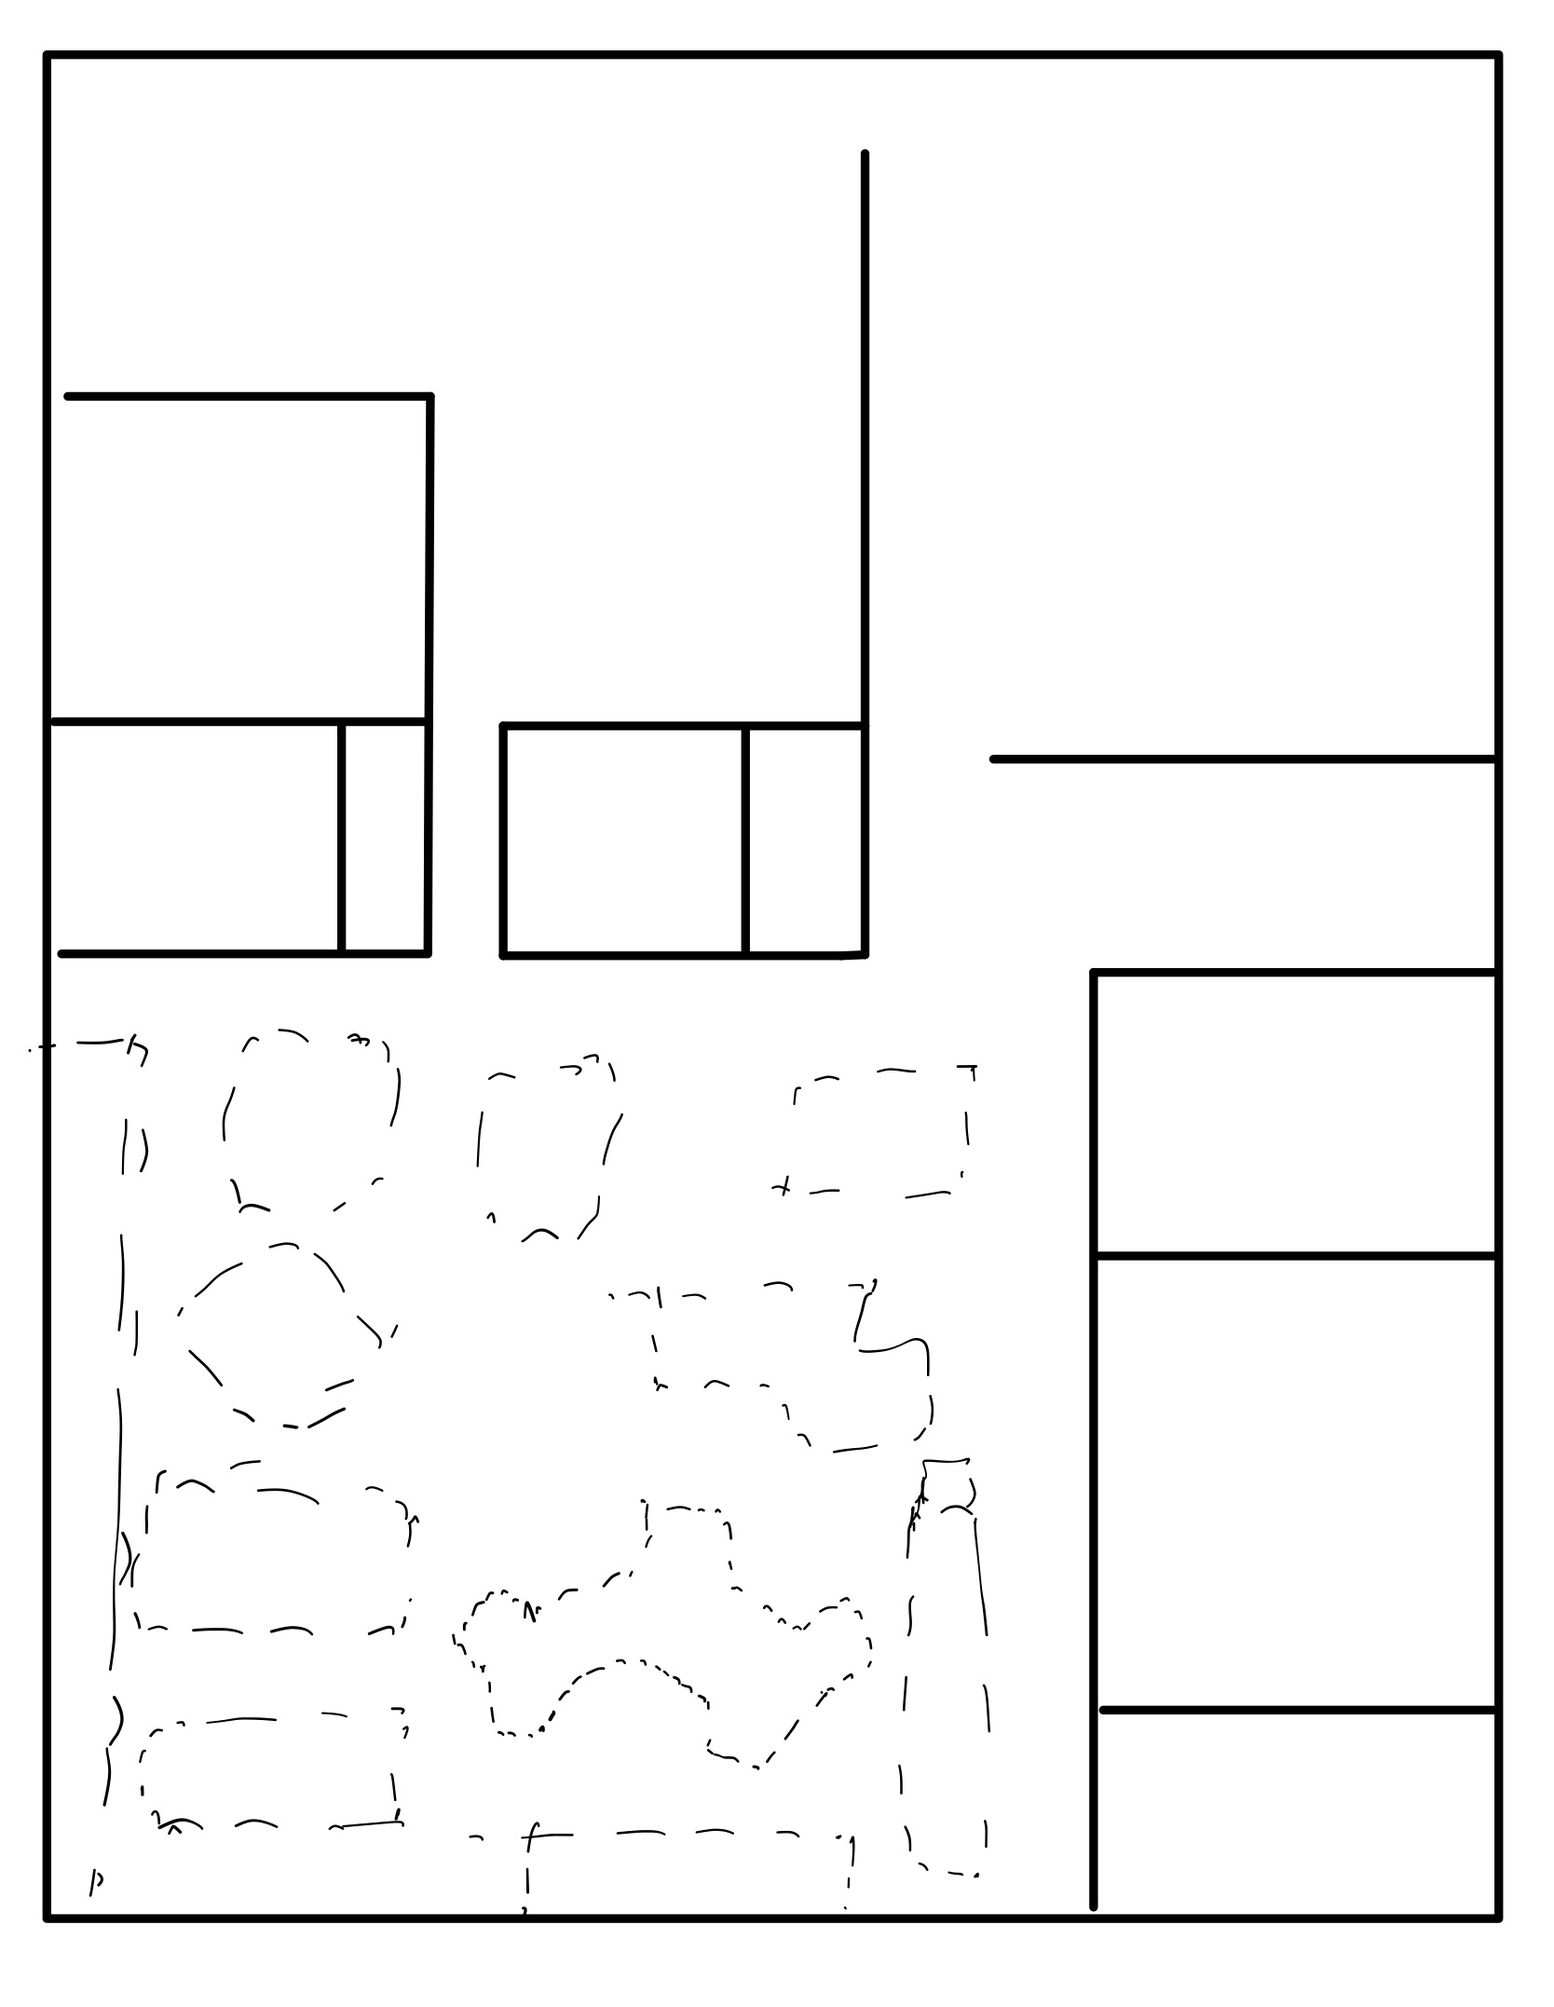
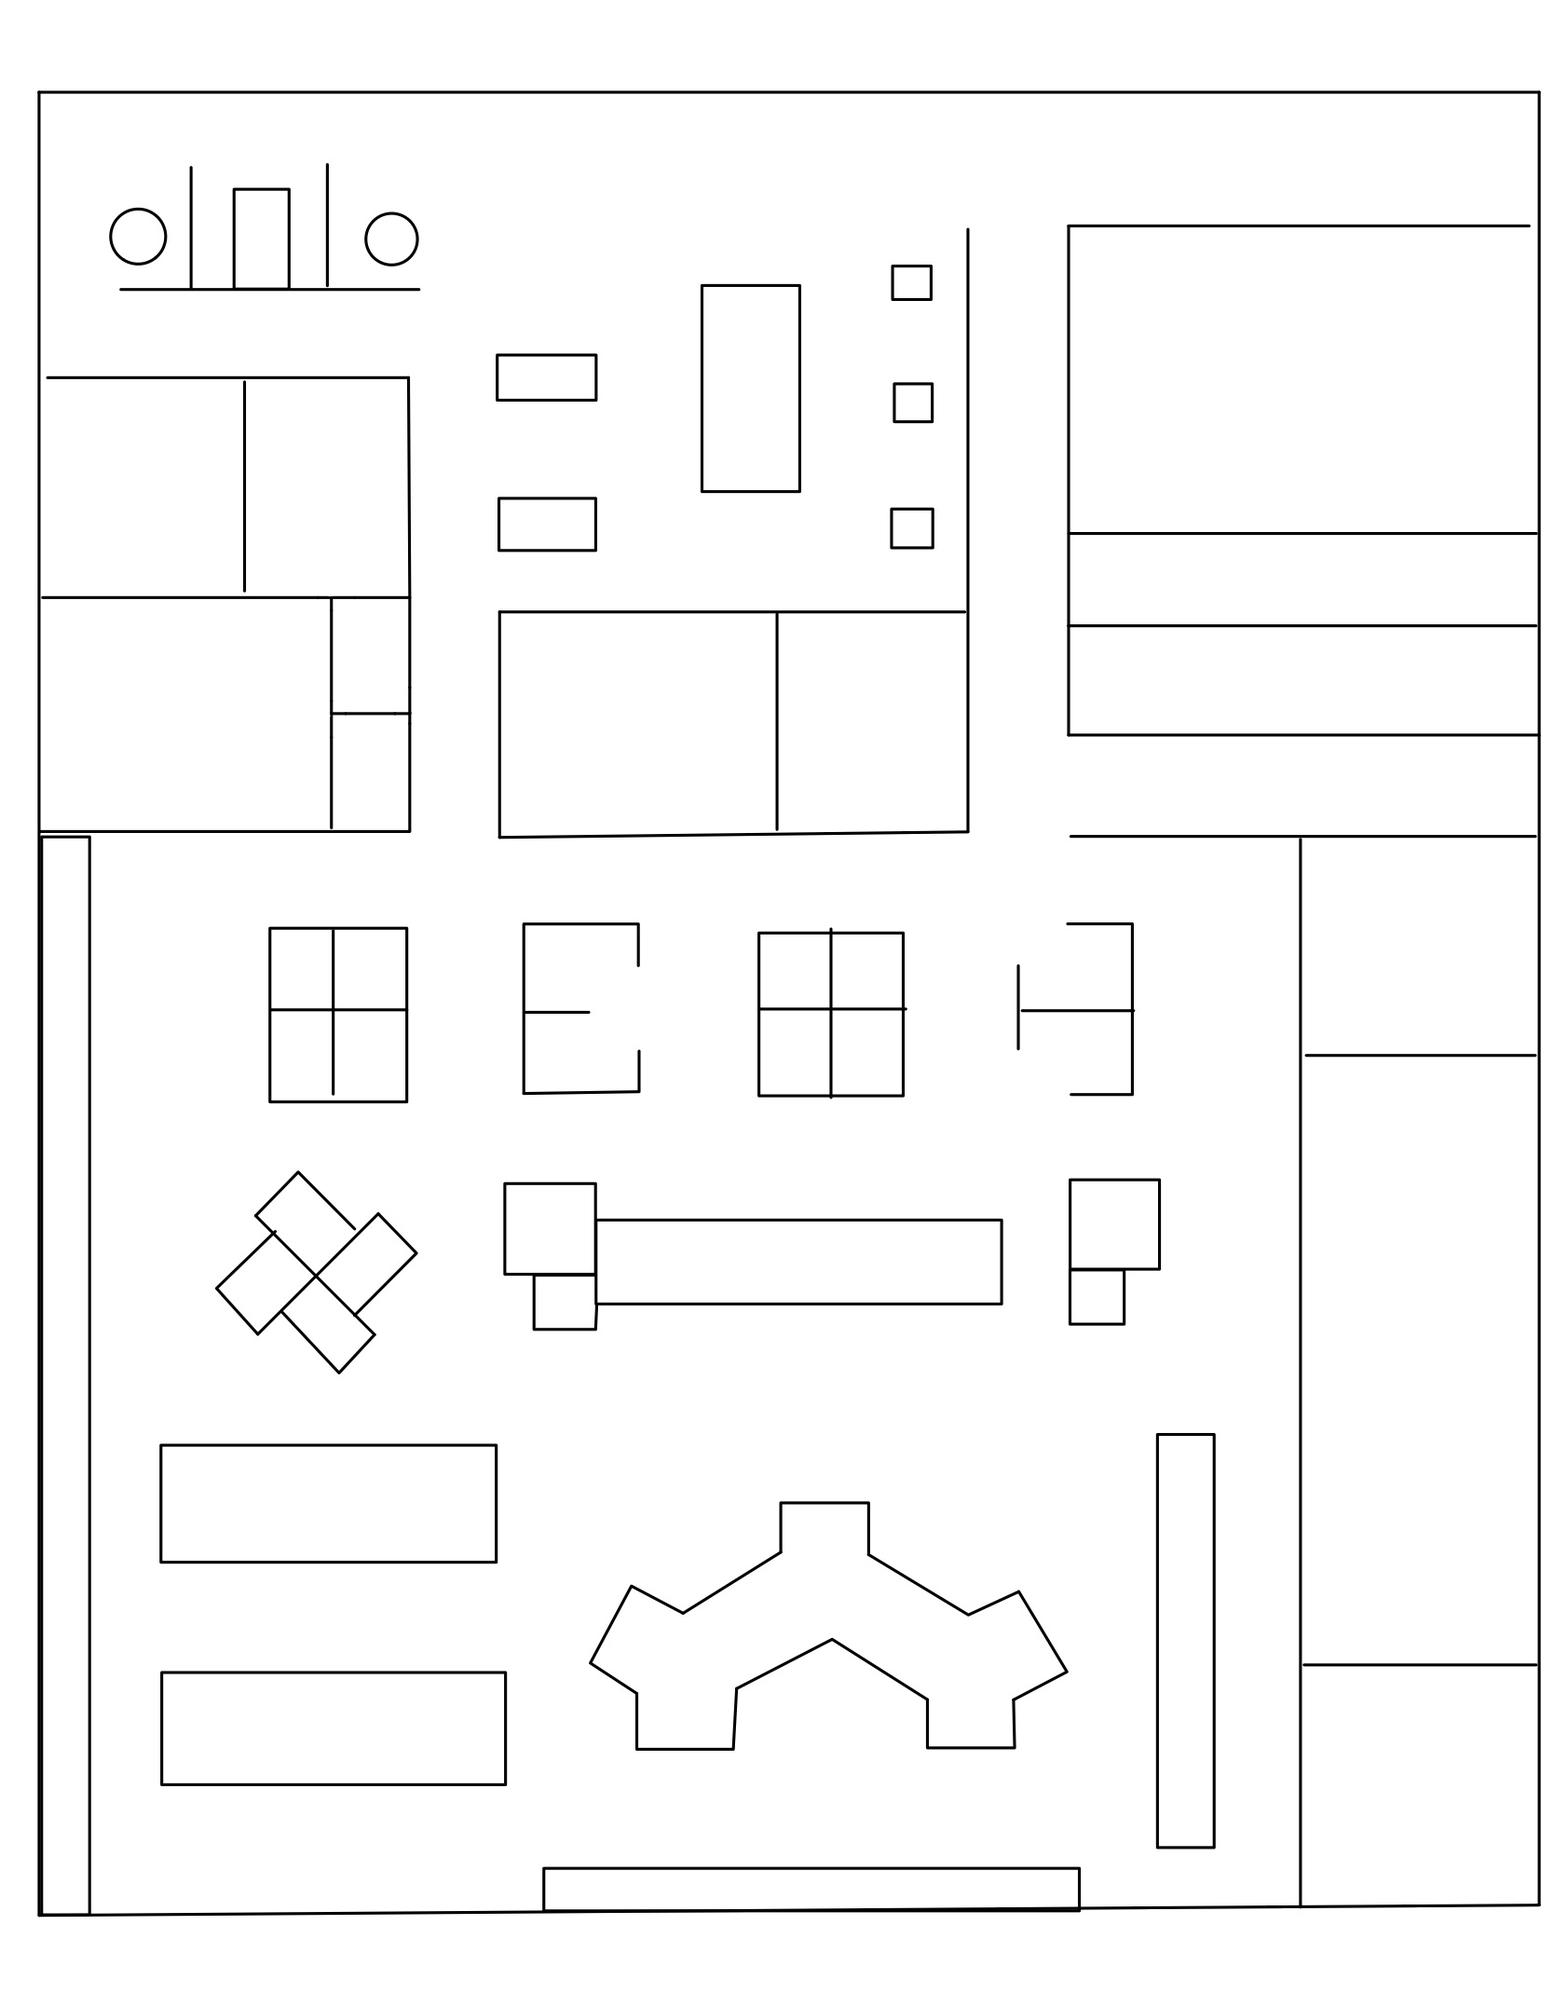
fix map and function

diff --git a/style.css b/style.css
@@ -26,30 +26,86 @@ h1 {
 
 .subtitle {
   color: #666;
-  margin-bottom: 24px;
+  margin-bottom: 8px;
+}
+.subtitle-accent {
+  color: #ef4444;       
+  font-weight: bold;   
+  margin-bottom: 8px; 
+}
+.subtitle-last {
+  color: #4b5563;       
+  font-size: 20px;
+  margin-bottom: 24px;  
+}
+.search-bar-container {
+  display: flex;
+  justify-content: center;
+  margin-bottom: 16px; /* 검색창과 지도 사이의 간격 */
+  gap: 8px;
+}
+#searchInput {
+  width: 250px;
+  padding: 10px 14px;
+  border: 2px solid #cbd5e1;
+  border-radius: 8px;
+  font-size: 14px;
+  font-family: inherit;
+}
+#searchBtn {
+  padding: 10px 16px;
+  background-color: #3b82f6;
+  color: white;
+  border: none;
+  border-radius: 8px;
+  cursor: pointer;
+  font-size: 16px;
+  transition: background-color 0.2s;
+}
+#searchBtn:hover {
+  background-color: #2563eb;
 }
 
-/* 🗺 지도 컨테이너: 손그림 이미지를 배경으로 지정 */
+/* 🕶 검색 시 배경을 어둡게 만드는 반투명 막 */
+.search-overlay {
+  position: absolute;
+  top: 0; left: 0; width: 100%; height: 100%;
+  background-color: rgba(0, 0, 0, 0.6); /* 60% 투명도의 검은색 */
+  border-radius: 12px;
+  z-index: 80; /* 회의실(5)보다는 높고, 강조될 좌석(90)보다는 낮게 설정 */
+  cursor: pointer;
+}
+
+/* 🌟 검색에 성공해 강조된 좌석의 스타일 */
+.seat.highlight {
+  z-index: 90 !important; /* 👈 어두운 막을 뚫고 맨 위로 올라오도록 강제 선언 */
+  transform: scale(1.3);   /* 👈 기존 40x20px 크기보다 살짝 더 키워서 한눈에 띄게 만듦 */
+  box-shadow: 0 0 0 10px rgba(255, 255, 255, 0.2), 0 10px 25px rgba(0,0,0,0.5); /* 주변에 부드러운 하얀 광채 효과 추가 */
+  border-color: #f59e0b !important; /* 테두리를 황금색으로 강조 */
+}
+/* 🗺 지도 컨테이너 */
 .map-container {
   position: relative;
-  width: 1000px;  /* 이미지 가로 해상도에 맞게 적절히 조절하세요 */
-  height: 600px; /* 이미지 세로 해상도에 맞게 적절히 조절하세요 */
-  background-image: url('office_map.jpg'); /* 👈 준비하신 파일명으로 변경 */
-  background-size: 100% 100%;
+  width: 700px;  
+  height: 904px; 
+  background-image: url('office_map.jpg'); 
+  background-size: contain;
   background-position: center;
+  background-repeat: no-repeat;
   border-radius: 12px;
   box-shadow: 0 8px 24px rgba(0,0,0,0.1);
+  margin: 0 auto;
 }
 
 /* 🪑 좌석 버튼 공통 스타일 */
 .seat {
   position: absolute;
-  width: 70px;   /* 좌석 버튼 가로 크기 */
-  height: 45px;  /* 좌석 버튼 세로 크기 */
+  width: 40px;   
+  height: 20px;  
   background-color: rgba(255, 255, 255, 0.9);
   border: 2px solid #cbd5e1;
   border-radius: 6px;
-  font-size: 12px;
+  font-size: 11px; /* 글자가 박스 밖으로 깨지지 않게 살짝 줄임 */
   font-weight: bold;
   color: #475569;
   cursor: pointer;
@@ -59,11 +115,12 @@ h1 {
   justify-content: center;
   align-items: center;
   box-shadow: 0 2px 4px rgba(0,0,0,0.05);
+  z-index: 10; /* 👈 회의실 텍스트나 배경 위에 무조건 오도록 우선순위 지정 */
 }
 
 /* 개별 좌석 상태별 스타일 */
 .seat.occupied {
-  background-color: #3b82f6; /* 예약된 좌석은 파란색 */
+  background-color: #3b82f6; 
   color: white;
   border-color: #2563eb;
 }
@@ -73,12 +130,118 @@ h1 {
   box-shadow: 0 4px 8px rgba(0,0,0,0.15);
 }
 
-/* 📍 개별 좌석 위치 (예시 좌표)
-   손그림 위의 책상 위치에 맞게 top과 left 퍼센트 값을 조절하시면 됩니다.
-   여기서는 우선 가상으로 5개만 위치를 잡아두었습니다. */
-.seat[data-id="1"] { top: 15%; left: 10%; }
-.seat[data-id="2"] { top: 15%; left: 22%; }
-.seat[data-id="3"] { top: 15%; left: 34%; }
-.seat[data-id="4"] { top: 45%; left: 10%; }
-.seat[data-id="5"] { top: 45%; left: 22%; }
-/* ... 나머지 6번부터 20번까지도 이런 식으로 아래에 추가해주시면 됩니다 */
+/* 🔕 좌석 안의 번호 숫자 숨기기 (올바른 주석 처리) */
+.seat-num {
+  display: none;
+}
+
+/* 📍 1번부터 83번 좌석 위치 데이터 */
+.seat[data-id="1"] { top: 42%; left: 4%; }
+.seat[data-id="2"] { top: 47%; left: 4%; }
+.seat[data-id="3"] { top: 52%; left: 4%; }
+.seat[data-id="4"] { top: 57%; left: 4%; }
+.seat[data-id="5"] { top: 61%; left: 4%; }
+.seat[data-id="6"] { top: 66%; left: 4%; }
+.seat[data-id="7"] { top: 71%; left: 4%; }
+.seat[data-id="8"] { top: 76%; left: 4%; }
+.seat[data-id="9"] { top: 81%; left: 4%; }
+.seat[data-id="10"] { top: 86%; left: 4%; }
+.seat[data-id="11"] { top: 92%; left: 4%; }
+.seat[data-id="12"] { top: 47%; left: 14%; }
+.seat[data-id="13"] { top: 47%; left: 22%; }
+.seat[data-id="14"] { top: 51%; left: 14%; }
+.seat[data-id="15"] { top: 51%; left: 22%; }
+.seat[data-id="16"] { top: 61%; left: 13%; }
+.seat[data-id="17"] { top: 65%; left: 16%; }
+.seat[data-id="18"] { top: 62%; left: 22%; }
+.seat[data-id="19"] { top: 58%; left: 18%; }
+.seat[data-id="20"] { top: 70%; left: 12%; }
+.seat[data-id="21"] { top: 70%; left: 19%; }
+.seat[data-id="22"] { top: 70%; left: 26%; }
+.seat[data-id="23"] { top: 77%; left: 12%; }
+.seat[data-id="24"] { top: 77%; left: 19%; }
+.seat[data-id="25"] { top: 77%; left: 26%; }
+.seat[data-id="26"] { top: 82%; left: 12%; }
+.seat[data-id="27"] { top: 82%; left: 19%; }
+.seat[data-id="28"] { top: 82%; left: 26%; }
+.seat[data-id="29"] { top: 88%; left: 12%; }
+.seat[data-id="30"] { top: 88%; left: 19%; }
+.seat[data-id="31"] { top: 88%; left: 26%; }
+.seat[data-id="32"] { top: 47%; left: 35%; }
+.seat[data-id="33"] { top: 51%; left: 35%; }
+.seat[data-id="34"] { top: 47%; left: 46%; }
+.seat[data-id="35"] { top: 51%; left: 46%; }
+.seat[data-id="36"] { top: 47%; left: 55%; }
+.seat[data-id="37"] { top: 51%; left: 55%; }
+.seat[data-id="38"] { top: 59%; left: 38%; }
+.seat[data-id="39"] { top: 59%; left: 45%; }
+.seat[data-id="40"] { top: 59%; left: 52%; }
+.seat[data-id="41"] { top: 59%; left: 59%; }
+.seat[data-id="42"] { top: 64%; left: 38%; }
+.seat[data-id="43"] { top: 64%; left: 45%; }
+.seat[data-id="44"] { top: 64%; left: 52%; }
+.seat[data-id="45"] { top: 64%; left: 59%; }
+.seat[data-id="46"] { top: 84%; left: 37%; }
+.seat[data-id="47"] { top: 78%; left: 41%; }
+.seat[data-id="48"] { top: 76%; left: 46%; }
+.seat[data-id="49"] { top: 76%; left: 54%; }
+.seat[data-id="50"] { top: 78%; left: 59%; }
+.seat[data-id="51"] { top: 84%; left: 63%; }
+.seat[data-id="52"] { top: 84%; left: 56%; }
+.seat[data-id="53"] { top: 81%; left: 51%; }
+.seat[data-id="54"] { top: 84%; left: 46%; }
+.seat[data-id="55"] { top: 92%; left: 37%; }
+.seat[data-id="56"] { top: 92%; left: 43%; }
+.seat[data-id="57"] { top: 92%; left: 49%; }
+.seat[data-id="58"] { top: 92%; left: 55%; }
+.seat[data-id="59"] { top: 92%; left: 61%; }
+.seat[data-id="60"] { top: 89%; left: 71%; }
+.seat[data-id="61"] { top: 85%; left: 71%; }
+.seat[data-id="62"] { top: 81%; left: 71%; }
+.seat[data-id="63"] { top: 77%; left: 71%; }
+.seat[data-id="64"] { top: 73%; left: 71%; }
+.seat[data-id="65"] { top: 51%; left: 66%; }
+.seat[data-id="66"] { top: 47%; left: 66%; }
+.seat[data-id="67"] { top: 13%; left: 59%; }
+.seat[data-id="68"] { top: 19%; left: 59%; }
+.seat[data-id="69"] { top: 25%; left: 59%; }
+.seat[data-id="70"] { top: 14%; left: 50%; }
+.seat[data-id="71"] { top: 18%; left: 50%; }
+.seat[data-id="72"] { top: 22%; left: 50%; }
+.seat[data-id="73"] { top: 14%; left: 42%; }
+.seat[data-id="74"] { top: 18%; left: 42%; }
+.seat[data-id="75"] { top: 22%; left: 42%; }
+.seat[data-id="76"] { top: 16%; left: 32%; }
+.seat[data-id="77"] { top: 19%; left: 32%; }
+.seat[data-id="78"] { top: 23%; left: 32%; }
+.seat[data-id="79"] { top: 26%; left: 32%; }
+.seat[data-id="80"] { top: 11%; left: 22%; }
+.seat[data-id="81"] { top: 11%; left: 17%; }
+.seat[data-id="82"] { top: 11%; left: 11%; }
+.seat[data-id="83"] { top: 11%; left: 6%; }
+
+/* 🚪 회의실/고정 공간 텍스트 박스 스타일 */
+.room {
+  position: absolute;
+  padding: 6px 12px;
+  background-color: #f1f5f9;      
+  border: 1px dashed #94a3b8;     
+  border-radius: 4px;
+  font-size: 13px;
+  font-weight: bold;
+  color: #64748b;                 
+  text-align: center;
+  pointer-events: none;           
+  z-index: 5;
+}
+
+.room[data-room="meeting-1"] { top: 23%; left: 3%; width: 83px; }
+.room[data-room="meeting-2"] { top: 23%; left: 17%; width: 60px; }
+.room[data-room="meeting-3"] { top: 34%; left: 5%; width: 100px; }
+.room[data-room="meeting-4"] { top: 34%; left: 34%; width: 90px; }
+.room[data-room="meeting-5"] { top: 33%; left: 51%; width: 74px; }
+.room[data-room="meeting-6"] { top: 17%; left: 77%; width: 90px; }
+.room[data-room="meeting-7"] { top: 30%; left: 77%; width: 90px; }
+.room[data-room="meeting-8"] { top:46%; left: 85%; width: 90px; }
+.room[data-room="meeting-9"] { top: 66%; left: 85%; width: 90px; }
+.room[data-room="meeting-10"] { top: 88%; left: 85%; width: 90px; }

diff --git a/app.js b/app.js
@@ -14,10 +14,14 @@ async function init() {
   listenToChanges();        
 }
 
-// 3. 화면에 20개의 좌석 버튼을 동적으로 생성
+// 3. 화면에 좌석 버튼을 동적으로 생성
 async function renderSeats() {
-  mapContainer.innerHTML = '';
-  for (let i = 1; i <= 20; i++) {
+  // ⭕ 중요: 검색용 딤드 막(#searchOverlay)이나 회의실(.room) 박스는 건드리지 않고, 기존 좌석(.seat)만 쏙 골라서 지웁니다.
+  const existingSeats = mapContainer.querySelectorAll('.seat');
+  existingSeats.forEach(seat => seat.remove());
+
+  // 총 83개의 좌석을 만듭니다.
+  for (let i = 1; i <= 83; i++) {
     const seatBtn = document.createElement('button');
     seatBtn.classList.add('seat');
     seatBtn.setAttribute('data-id', i);
@@ -31,7 +35,6 @@ async function renderSeats() {
 
 // 4. Supabase DB에서 좌석 정보를 긁어와 화면에 뿌려주는 함수
 async function fetchSeatData() {
-  // ⭐ 여기도 supabase 대신 supabaseClient 사용
   const { data: seats, error } = await supabaseClient
     .from('seats')
     .select('*')
@@ -60,7 +63,6 @@ async function fetchSeatData() {
 
 // 5. 좌석 클릭 시 발생하는 핵심 이벤트 인터랙션
 async function handleSeatClick(seatId) {
-  // ⭐ 여기도 supabaseClient 사용
   const { data: seat, error } = await supabaseClient
     .from('seats')
     .select('*')
@@ -81,7 +83,6 @@ async function handleSeatClick(seatId) {
       return;
     }
 
-    // ⭐ 여기도 supabaseClient 사용
     const { error: updateError } = await supabaseClient
       .from('seats')
       .update({ user_name: name, seat_password: password, updated_at: new Date() })
@@ -91,7 +92,7 @@ async function handleSeatClick(seatId) {
       alert('등록 중 오류가 발생했습니다.');
       console.error(updateError);
     } else {
-      alert(`${name}님, ${seatId}번 좌석에 등록되었습니다.`);
+      alert(`${name}님, 좌석이 등록되었습니다.`);
     }
 
   } 
@@ -107,7 +108,6 @@ async function handleSeatClick(seatId) {
       return;
     }
 
-    // ⭐ 여기도 supabaseClient 사용
     const { error: clearError } = await supabaseClient
       .from('seats')
       .update({ user_name: null, seat_password: null, updated_at: new Date() })
@@ -123,7 +123,6 @@ async function handleSeatClick(seatId) {
 
 // 6. 실시간(Realtime) 이벤트 리스너
 function listenToChanges() {
-  // ⭐ 여기도 supabaseClient 사용
   supabaseClient
     .channel('schema-db-changes')
     .on(
@@ -136,5 +135,61 @@ function listenToChanges() {
     )
     .subscribe();
 }
+
+// 🌟 7. [새로 추가] 팀원 검색 기능 로직
+const searchInput = document.getElementById('searchInput');
+const searchBtn = document.getElementById('searchBtn');
+const searchOverlay = document.getElementById('searchOverlay');
+
+// 검색 실행 함수
+function executeSearch() {
+  const query = searchInput.value.trim().toLowerCase(); // 앞뒤 공백 제거 및 소문자 변환
+  
+  if (!query) {
+    alert('검색할 이름을 입력해주세요!');
+    return;
+  }
+
+  let found = false;
+  const allSeats = document.querySelectorAll('.seat');
+
+  // 새로운 검색을 위해 기존에 강조되어 있던 좌석 스타일 모두 초기화
+  allSeats.forEach(seat => seat.classList.remove('highlight'));
+  searchOverlay.style.display = 'none';
+
+  // 83개의 좌석 버튼을 돌면서 등록된 이름과 검색어가 일치하는지 확인
+  allSeats.forEach(seat => {
+    const userNameElement = seat.querySelector('.user-name');
+    if (userNameElement && userNameElement.innerText.toLowerCase() === query) {
+      seat.classList.add('highlight'); // 👈 CSS에 등록해둔 스포트라이트 효과 부여
+      found = true;
+    }
+  });
+
+  if (found) {
+    // 일치하는 팀원을 찾았다면 주변을 어둡게 만드는 투명 막을 켭니다.
+    searchOverlay.style.display = 'block';
+  } else {
+    alert(`'${query}' 님은 현재 자리에 등록되어 있지 않습니다.`);
+  }
+}
+
+// 🔍 돋보기 버튼 클릭할 때 검색 실행
+searchBtn.addEventListener('click', executeSearch);
+
+// ⌨ 검색창에서 엔터(Enter) 키를 눌렀을 때도 검색 실행
+searchInput.addEventListener('keydown', (e) => {
+  if (e.key === 'Enter') {
+    executeSearch();
+  }
+});
+
+// 🕶 배경(어두운 투명 막)을 마우스로 클릭하면 강조 모드 해제
+searchOverlay.addEventListener('click', () => {
+  const allSeats = document.querySelectorAll('.seat');
+  allSeats.forEach(seat => seat.classList.remove('highlight')); // 강조 제거
+  searchOverlay.style.display = 'none'; // 어두운 막 숨기기
+  searchInput.value = ''; // 검색 텍스트창 비우기
+});
 
 init();

diff --git a/index.html b/index.html
@@ -10,11 +10,28 @@
 <body>
 
   <div class="container">
-    <h1>🏢 우리 팀 오늘 어디 앉지?</h1>
+    <h1>🏢 우리 팀 오늘 어디 앉았지?</h1>
     <p class="subtitle">좌석을 클릭해서 본인 이름을 등록하세요. (매일 밤 12시 초기화)</p>
-
+    <p class="subtitle subtitle-accent">다른 사람이 검색할 수 있도록 이름은 영어-소문자로 입력해주세요!</p>
+    <p class="subtitle subtitle-last">자리 맡는 용도가 아닙니다! 팀원에게 자신의 위치를 공유하기 위한 사이트입니다.</p>
+    <div class="search-bar-container">
+      <input type="text" id="searchInput" placeholder="팀원 이름 입력 (영어 소문자)">
+      <button id="searchBtn">🔍</button>
+    </div>
     <div class="map-container" id="mapContainer">
-      </div>
+      <div class="room" data-room="meeting-1">distruptive</div>
+      <div class="room" data-room="meeting-2">Honest</div>
+      <div class="room" data-room="meeting-3">사물함</div>
+      <div class="room" data-room="meeting-4">Open</div>
+      <div class="room" data-room="meeting-5">Team player</div>
+      <div class="room" data-room="meeting-6">Pride</div>
+      <div class="room" data-room="meeting-7">사물함</div>
+      <div class="room" data-room="meeting-8">Tenecious</div>
+      <div class="room" data-room="meeting-9">AI</div>
+      <div class="room" data-room="meeting-10">FUN</div>
+      <div id="searchOverlay" class="search-overlay" style="display: none;"></div>
+      
+    </div>
   </div>
 
   <script src="app.js"></script>
